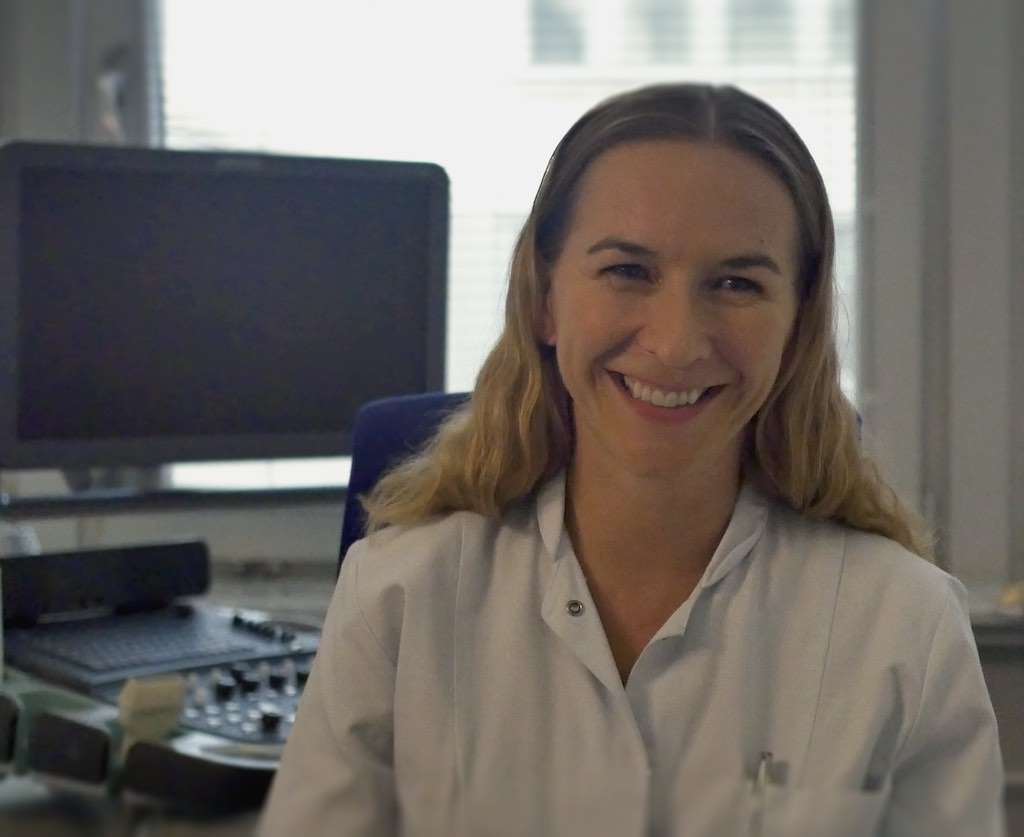
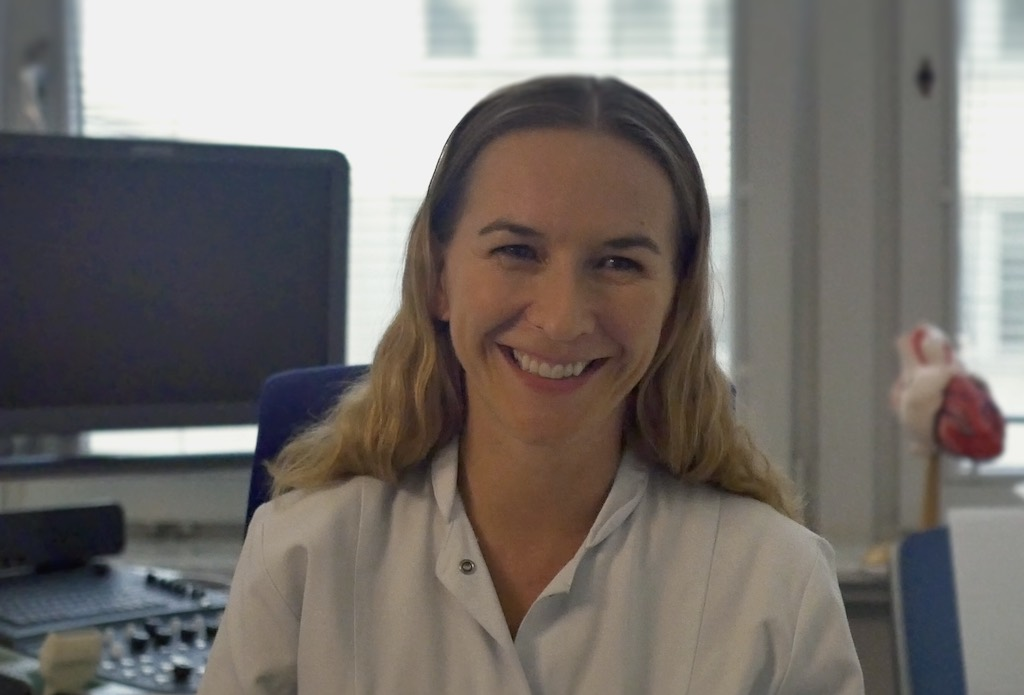
Updated hero image

diff --git a/docs/assets/stylesheets/main.css b/docs/assets/stylesheets/main.css
@@ -1,1 +1,1 @@
-/*! tailwindcss v3.0.24 | MIT License | https://tailwindcss.com*/*,:after,:before{box-sizing:border-box;border:0 solid #e5e7eb}:after,:before{--tw-content:""}html{line-height:1.5;-webkit-text-size-adjust:100%;-moz-tab-size:4;-o-tab-size:4;tab-size:4;font-family:ui-sans-serif,system-ui,-apple-system,BlinkMacSystemFont,Segoe UI,Roboto,Helvetica Neue,Arial,Noto Sans,sans-serif,Apple Color Emoji,Segoe UI Emoji,Segoe UI Symbol,Noto Color Emoji}body{margin:0;line-height:inherit}hr{height:0;color:inherit;border-top-width:1px}abbr:where([title]){-webkit-text-decoration:underline dotted;text-decoration:underline dotted}h1,h2,h3,h4,h5,h6{font-size:inherit;font-weight:inherit}a{color:inherit;text-decoration:inherit}b,strong{font-weight:bolder}code,kbd,pre,samp{font-family:ui-monospace,SFMono-Regular,Menlo,Monaco,Consolas,Liberation Mono,Courier New,monospace;font-size:1em}small{font-size:80%}sub,sup{font-size:75%;line-height:0;position:relative;vertical-align:initial}sub{bottom:-.25em}sup{top:-.5em}table{text-indent:0;border-color:inherit;border-collapse:collapse}button,input,optgroup,select,textarea{font-family:inherit;font-size:100%;line-height:inherit;color:inherit;margin:0;padding:0}button,select{text-transform:none}[type=button],[type=reset],[type=submit],button{-webkit-appearance:button;background-color:initial;background-image:none}:-moz-focusring{outline:auto}:-moz-ui-invalid{box-shadow:none}progress{vertical-align:initial}::-webkit-inner-spin-button,::-webkit-outer-spin-button{height:auto}[type=search]{-webkit-appearance:textfield;outline-offset:-2px}::-webkit-search-decoration{-webkit-appearance:none}::-webkit-file-upload-button{-webkit-appearance:button;font:inherit}summary{display:list-item}blockquote,dd,dl,figure,h1,h2,h3,h4,h5,h6,hr,p,pre{margin:0}fieldset{margin:0}fieldset,legend{padding:0}menu,ol,ul{list-style:none;margin:0;padding:0}textarea{resize:vertical}input::-moz-placeholder,textarea::-moz-placeholder{opacity:1;color:#9ca3af}input:-ms-input-placeholder,textarea:-ms-input-placeholder{opacity:1;color:#9ca3af}input::placeholder,textarea::placeholder{opacity:1;color:#9ca3af}[role=button],button{cursor:pointer}:disabled{cursor:default}audio,canvas,embed,iframe,img,object,svg,video{display:block;vertical-align:middle}img,video{max-width:100%;height:auto}[hidden]{display:none}*,:after,:before{--tw-translate-x:0;--tw-translate-y:0;--tw-rotate:0;--tw-skew-x:0;--tw-skew-y:0;--tw-scale-x:1;--tw-scale-y:1;--tw-pan-x: ;--tw-pan-y: ;--tw-pinch-zoom: ;--tw-scroll-snap-strictness:proximity;--tw-ordinal: ;--tw-slashed-zero: ;--tw-numeric-figure: ;--tw-numeric-spacing: ;--tw-numeric-fraction: ;--tw-ring-inset: ;--tw-ring-offset-width:0px;--tw-ring-offset-color:#fff;--tw-ring-color:#3b82f680;--tw-ring-offset-shadow:0 0 #0000;--tw-ring-shadow:0 0 #0000;--tw-shadow:0 0 #0000;--tw-shadow-colored:0 0 #0000;--tw-blur: ;--tw-brightness: ;--tw-contrast: ;--tw-grayscale: ;--tw-hue-rotate: ;--tw-invert: ;--tw-saturate: ;--tw-sepia: ;--tw-drop-shadow: ;--tw-backdrop-blur: ;--tw-backdrop-brightness: ;--tw-backdrop-contrast: ;--tw-backdrop-grayscale: ;--tw-backdrop-hue-rotate: ;--tw-backdrop-invert: ;--tw-backdrop-opacity: ;--tw-backdrop-saturate: ;--tw-backdrop-sepia: }.sr-only{position:absolute;width:1px;height:1px;padding:0;margin:-1px;overflow:hidden;clip:rect(0,0,0,0);white-space:nowrap;border-width:0}.absolute{position:absolute}.relative{position:relative}.inset-x-0{left:0;right:0}.inset-y-0{top:0;bottom:0}.-top-6{top:-1.5rem}.left-0{left:0}.-bottom-1{bottom:-.25rem}.top-\[2px\]{top:2px}.right-0{right:0}.top-0{top:0}.-left-3{left:-.75rem}.left-7{left:1.75rem}.-top-8{top:-2rem}.-bottom-8{bottom:-2rem}.bottom-5{bottom:1.25rem}.left-1\/2{left:50%}.z-20{z-index:20}.z-10{z-index:10}.z-30{z-index:30}.mx-auto{margin-left:auto;margin-right:auto}.mt-4{margin-top:1rem}.mt-6{margin-top:1.5rem}.mb-12{margin-bottom:3rem}.mt-8{margin-top:2rem}.mt-2{margin-top:.5rem}.mb-2{margin-bottom:.5rem}.-mr-2{margin-right:-.5rem}.mr-7{margin-right:1.75rem}.mt-10{margin-top:2.5rem}.mb-6{margin-bottom:1.5rem}.mt-3{margin-top:.75rem}.mt-5{margin-top:1.25rem}.mt-16{margin-top:4rem}.block{display:block}.inline-block{display:inline-block}.flex{display:flex}.inline-flex{display:inline-flex}.hidden{display:none}.h-96{height:24rem}.h-\[20rem\]{height:20rem}.h-7{height:1.75rem}.h-6{height:1.5rem}.h-8{height:2rem}.h-1{height:.25rem}.h-full{height:100%}.h-4{height:1rem}.h-3{height:.75rem}.h-5{height:1.25rem}.min-h-full{min-height:100%}.min-h-screen{min-height:100vh}.min-h-\[11rem\]{min-height:11rem}.w-full{width:100%}.w-6{width:1.5rem}.w-auto{width:auto}.w-24{width:6rem}.w-1{width:.25rem}.w-2{width:.5rem}.w-48{width:12rem}.w-8{width:2rem}.w-3{width:.75rem}.w-5{width:1.25rem}.max-w-7xl{max-width:80rem}.max-w-full{max-width:100%}.max-w-3xl{max-width:48rem}.flex-none{flex:none}.flex-shrink-0{flex-shrink:0}.flex-grow{flex-grow:1}.flex-grow-0{flex-grow:0}.grow{flex-grow:1}.origin-top-right{transform-origin:top right}.translate-x-1\/2{--tw-translate-x:50%}.-translate-x-3,.translate-x-1\/2{transform:translate(var(--tw-translate-x),var(--tw-translate-y)) rotate(var(--tw-rotate)) skewX(var(--tw-skew-x)) skewY(var(--tw-skew-y)) scaleX(var(--tw-scale-x)) scaleY(var(--tw-scale-y))}.-translate-x-3{--tw-translate-x:-0.75rem}.-translate-y-2{--tw-translate-y:-0.5rem}.-translate-x-1\/2,.-translate-y-2{transform:translate(var(--tw-translate-x),var(--tw-translate-y)) rotate(var(--tw-rotate)) skewX(var(--tw-skew-x)) skewY(var(--tw-skew-y)) scaleX(var(--tw-scale-x)) scaleY(var(--tw-scale-y))}.-translate-x-1\/2{--tw-translate-x:-50%}.rotate-0{--tw-rotate:0deg}.-scale-y-100,.rotate-0{transform:translate(var(--tw-translate-x),var(--tw-translate-y)) rotate(var(--tw-rotate)) skewX(var(--tw-skew-x)) skewY(var(--tw-skew-y)) scaleX(var(--tw-scale-x)) scaleY(var(--tw-scale-y))}.-scale-y-100{--tw-scale-y:-1}.-scale-x-100{--tw-scale-x:-1}.-scale-x-100,.transform{transform:translate(var(--tw-translate-x),var(--tw-translate-y)) rotate(var(--tw-rotate)) skewX(var(--tw-skew-x)) skewY(var(--tw-skew-y)) scaleX(var(--tw-scale-x)) scaleY(var(--tw-scale-y))}.cursor-pointer{cursor:pointer}.flex-col{flex-direction:column}.items-start{align-items:flex-start}.items-center{align-items:center}.justify-start{justify-content:flex-start}.justify-center{justify-content:center}.justify-between{justify-content:space-between}.gap-8{gap:2rem}.gap-2{gap:.5rem}.space-y-5>:not([hidden])~:not([hidden]){--tw-space-y-reverse:0;margin-top:calc(1.25rem*(1 - var(--tw-space-y-reverse)));margin-bottom:calc(1.25rem*var(--tw-space-y-reverse))}.space-y-4>:not([hidden])~:not([hidden]){--tw-space-y-reverse:0;margin-top:calc(1rem*(1 - var(--tw-space-y-reverse)));margin-bottom:calc(1rem*var(--tw-space-y-reverse))}.space-x-6>:not([hidden])~:not([hidden]){--tw-space-x-reverse:0;margin-right:calc(1.5rem*var(--tw-space-x-reverse));margin-left:calc(1.5rem*(1 - var(--tw-space-x-reverse)))}.space-y-1>:not([hidden])~:not([hidden]){--tw-space-y-reverse:0;margin-top:calc(.25rem*(1 - var(--tw-space-y-reverse)));margin-bottom:calc(.25rem*var(--tw-space-y-reverse))}.space-y-3>:not([hidden])~:not([hidden]){--tw-space-y-reverse:0;margin-top:calc(.75rem*(1 - var(--tw-space-y-reverse)));margin-bottom:calc(.75rem*var(--tw-space-y-reverse))}.space-x-3>:not([hidden])~:not([hidden]){--tw-space-x-reverse:0;margin-right:calc(.75rem*var(--tw-space-x-reverse));margin-left:calc(.75rem*(1 - var(--tw-space-x-reverse)))}.divide-y>:not([hidden])~:not([hidden]){--tw-divide-y-reverse:0;border-top-width:calc(1px*(1 - var(--tw-divide-y-reverse)));border-bottom-width:calc(1px*var(--tw-divide-y-reverse))}.divide-y-2>:not([hidden])~:not([hidden]){--tw-divide-y-reverse:0;border-top-width:calc(2px*(1 - var(--tw-divide-y-reverse)));border-bottom-width:calc(2px*var(--tw-divide-y-reverse))}.divide-gray-200>:not([hidden])~:not([hidden]){--tw-divide-opacity:1;border-color:rgb(229 231 235/var(--tw-divide-opacity))}.divide-gray-300>:not([hidden])~:not([hidden]){--tw-divide-opacity:1;border-color:rgb(209 213 219/var(--tw-divide-opacity))}.justify-self-end{justify-self:end}.justify-self-center{justify-self:center}.overflow-hidden{overflow:hidden}.rounded-md{border-radius:.375rem}.rounded-lg{border-radius:.5rem}.rounded-full{border-radius:9999px}.border{border-width:1px}.border-t{border-top-width:1px}.border-gray-200{--tw-border-opacity:1;border-color:rgb(229 231 235/var(--tw-border-opacity))}.border-transparent{border-color:#0000}.bg-white{--tw-bg-opacity:1;background-color:rgb(255 255 255/var(--tw-bg-opacity))}.bg-gray-50{--tw-bg-opacity:1;background-color:rgb(249 250 251/var(--tw-bg-opacity))}.bg-blue-600{--tw-bg-opacity:1;background-color:rgb(37 99 235/var(--tw-bg-opacity))}.bg-gray-300{--tw-bg-opacity:1;background-color:rgb(209 213 219/var(--tw-bg-opacity))}.bg-indigo-600{--tw-bg-opacity:1;background-color:rgb(79 70 229/var(--tw-bg-opacity))}.bg-gray-200{--tw-bg-opacity:1;background-color:rgb(229 231 235/var(--tw-bg-opacity))}.bg-gray-400{--tw-bg-opacity:1;background-color:rgb(156 163 175/var(--tw-bg-opacity))}.bg-gray-900{--tw-bg-opacity:1;background-color:rgb(17 24 39/var(--tw-bg-opacity))}.bg-white\/50{background-color:#ffffff80}.bg-gray-800\/30{background-color:#1f29374d}.bg-red-200{--tw-bg-opacity:1;background-color:rgb(254 202 202/var(--tw-bg-opacity))}.object-cover{-o-object-fit:cover;object-fit:cover}.object-scale-down{-o-object-fit:scale-down;object-fit:scale-down}.object-top{-o-object-position:top;object-position:top}.p-2{padding:.5rem}.px-4{padding-left:1rem;padding-right:1rem}.py-16{padding-top:4rem;padding-bottom:4rem}.py-4{padding-top:1rem;padding-bottom:1rem}.py-6{padding-top:1.5rem;padding-bottom:1.5rem}.py-12{padding-top:3rem;padding-bottom:3rem}.py-1{padding-top:.25rem;padding-bottom:.25rem}.py-2{padding-top:.5rem;padding-bottom:.5rem}.px-5{padding-left:1.25rem;padding-right:1.25rem}.px-2{padding-left:.5rem;padding-right:.5rem}.px-3{padding-left:.75rem;padding-right:.75rem}.py-8{padding-top:2rem;padding-bottom:2rem}.py-3{padding-top:.75rem;padding-bottom:.75rem}.pt-16{padding-top:4rem}.pb-12{padding-bottom:3rem}.pt-4{padding-top:1rem}.pb-8{padding-bottom:2rem}.pb-10{padding-bottom:2.5rem}.pr-12{padding-right:3rem}.pl-8{padding-left:2rem}.pr-6{padding-right:1.5rem}.pt-2{padding-top:.5rem}.pb-3{padding-bottom:.75rem}.pt-12{padding-top:3rem}.pb-6{padding-bottom:1.5rem}.text-left{text-align:left}.text-center{text-align:center}.text-sm{font-size:.875rem;line-height:1.25rem}.text-base{font-size:1rem;line-height:1.5rem}.text-lg{font-size:1.125rem;line-height:1.75rem}.text-2xl{font-size:1.5rem;line-height:2rem}.font-semibold{font-weight:600}.font-medium{font-weight:500}.uppercase{text-transform:uppercase}.italic{font-style:italic}.leading-9{line-height:2.25rem}.tracking-wide{letter-spacing:.025em}.text-indigo-600{--tw-text-opacity:1;color:rgb(79 70 229/var(--tw-text-opacity))}.text-gray-500{--tw-text-opacity:1;color:rgb(107 114 128/var(--tw-text-opacity))}.text-gray-900{--tw-text-opacity:1;color:rgb(17 24 39/var(--tw-text-opacity))}.text-gray-400{--tw-text-opacity:1;color:rgb(156 163 175/var(--tw-text-opacity))}.text-gray-700{--tw-text-opacity:1;color:rgb(55 65 81/var(--tw-text-opacity))}.text-white{--tw-text-opacity:1;color:rgb(255 255 255/var(--tw-text-opacity))}.text-gray-600{--tw-text-opacity:1;color:rgb(75 85 99/var(--tw-text-opacity))}.text-blue-600{--tw-text-opacity:1;color:rgb(37 99 235/var(--tw-text-opacity))}.text-indigo-500{--tw-text-opacity:1;color:rgb(99 102 241/var(--tw-text-opacity))}.opacity-90{opacity:.9}.shadow-sm{--tw-shadow:0 1px 2px 0 #0000000d;--tw-shadow-colored:0 1px 2px 0 var(--tw-shadow-color)}.shadow-lg,.shadow-sm{box-shadow:var(--tw-ring-offset-shadow,0 0 #0000),var(--tw-ring-shadow,0 0 #0000),var(--tw-shadow)}.shadow-lg{--tw-shadow:0 10px 15px -3px #0000001a,0 4px 6px -4px #0000001a;--tw-shadow-colored:0 10px 15px -3px var(--tw-shadow-color),0 4px 6px -4px var(--tw-shadow-color)}.shadow-md{--tw-shadow:0 4px 6px -1px #0000001a,0 2px 4px -2px #0000001a;--tw-shadow-colored:0 4px 6px -1px var(--tw-shadow-color),0 2px 4px -2px var(--tw-shadow-color);box-shadow:var(--tw-ring-offset-shadow,0 0 #0000),var(--tw-ring-shadow,0 0 #0000),var(--tw-shadow)}.ring-1{--tw-ring-offset-shadow:var(--tw-ring-inset) 0 0 0 var(--tw-ring-offset-width) var(--tw-ring-offset-color);--tw-ring-shadow:var(--tw-ring-inset) 0 0 0 calc(1px + var(--tw-ring-offset-width)) var(--tw-ring-color);box-shadow:var(--tw-ring-offset-shadow),var(--tw-ring-shadow),var(--tw-shadow,0 0 #0000)}.ring-black{--tw-ring-opacity:1;--tw-ring-color:rgb(0 0 0/var(--tw-ring-opacity))}.ring-opacity-5{--tw-ring-opacity:0.05}.drop-shadow-xl{--tw-drop-shadow:drop-shadow(0 20px 13px #00000008) drop-shadow(0 8px 5px #00000014);filter:var(--tw-blur) var(--tw-brightness) var(--tw-contrast) var(--tw-grayscale) var(--tw-hue-rotate) var(--tw-invert) var(--tw-saturate) var(--tw-sepia) var(--tw-drop-shadow)}.transition{transition-property:color,background-color,border-color,fill,stroke,opacity,box-shadow,transform,filter,-webkit-text-decoration-color,-webkit-backdrop-filter;transition-property:color,background-color,border-color,text-decoration-color,fill,stroke,opacity,box-shadow,transform,filter,backdrop-filter;transition-property:color,background-color,border-color,text-decoration-color,fill,stroke,opacity,box-shadow,transform,filter,backdrop-filter,-webkit-text-decoration-color,-webkit-backdrop-filter;transition-timing-function:cubic-bezier(.4,0,.2,1);transition-duration:.15s}h1{font-size:2.25rem;line-height:2.5rem;font-weight:800;letter-spacing:-.025em}@media (min-width:640px){h1{font-size:3rem;line-height:1}}@media (min-width:768px){h1{font-size:3.75rem;line-height:1}}h2{font-size:1.875rem;line-height:2.25rem;font-weight:800}@media (min-width:640px){h2{font-size:2.25rem;line-height:2.5rem}}.content a:not(.btn){--tw-text-opacity:1;color:rgb(37 99 235/var(--tw-text-opacity));-webkit-text-decoration-line:underline;text-decoration-line:underline}.content a:not(.btn):visited{color:#9333ea}.content a:not(.btn):hover{--tw-text-opacity:1;color:rgb(30 64 175/var(--tw-text-opacity))}ul{list-style-type:disc;padding-left:1rem;padding-right:1rem}.hover\:bg-gray-100:hover{--tw-bg-opacity:1;background-color:rgb(243 244 246/var(--tw-bg-opacity))}.hover\:bg-gray-50:hover{--tw-bg-opacity:1;background-color:rgb(249 250 251/var(--tw-bg-opacity))}.hover\:bg-indigo-700:hover{--tw-bg-opacity:1;background-color:rgb(67 56 202/var(--tw-bg-opacity))}.hover\:bg-white:hover{--tw-bg-opacity:1;background-color:rgb(255 255 255/var(--tw-bg-opacity))}.hover\:text-indigo-500:hover{--tw-text-opacity:1;color:rgb(99 102 241/var(--tw-text-opacity))}.hover\:text-gray-500:hover{--tw-text-opacity:1;color:rgb(107 114 128/var(--tw-text-opacity))}.hover\:text-gray-300:hover{--tw-text-opacity:1;color:rgb(209 213 219/var(--tw-text-opacity))}.hover\:text-gray-900:hover{--tw-text-opacity:1;color:rgb(17 24 39/var(--tw-text-opacity))}.focus\:outline-none:focus{outline:2px solid #0000;outline-offset:2px}.focus\:ring-2:focus{--tw-ring-offset-shadow:var(--tw-ring-inset) 0 0 0 var(--tw-ring-offset-width) var(--tw-ring-offset-color);--tw-ring-shadow:var(--tw-ring-inset) 0 0 0 calc(2px + var(--tw-ring-offset-width)) var(--tw-ring-color);box-shadow:var(--tw-ring-offset-shadow),var(--tw-ring-shadow),var(--tw-shadow,0 0 #0000)}.focus\:ring-inset:focus{--tw-ring-inset:inset}.focus\:ring-indigo-500:focus{--tw-ring-opacity:1;--tw-ring-color:rgb(99 102 241/var(--tw-ring-opacity))}.focus\:ring-offset-2:focus{--tw-ring-offset-width:2px}.focus\:ring-offset-gray-100:focus{--tw-ring-offset-color:#f3f4f6}.group:hover .group-hover\:bg-gray-800\/60{background-color:#1f293799}.group:focus .group-focus\:ring-gray-800\/70{--tw-ring-color:#1f2937b3}@media (prefers-color-scheme:dark){.dark\:text-gray-800{--tw-text-opacity:1;color:rgb(31 41 55/var(--tw-text-opacity))}}@media (min-width:640px){.sm\:mx-auto{margin-left:auto;margin-right:auto}.sm\:mt-12{margin-top:3rem}.sm\:mt-5{margin-top:1.25rem}.sm\:h-10{height:2.5rem}.sm\:h-6{height:1.5rem}.sm\:w-auto{width:auto}.sm\:w-10{width:2.5rem}.sm\:w-6{width:1.5rem}.sm\:max-w-xl{max-width:36rem}.sm\:px-6{padding-left:1.5rem;padding-right:1.5rem}.sm\:py-24{padding-top:6rem;padding-bottom:6rem}.sm\:pt-16{padding-top:4rem}.sm\:text-center{text-align:center}.sm\:text-lg{font-size:1.125rem;line-height:1.75rem}}@media (min-width:768px){.md\:absolute{position:absolute}.md\:bottom-12{bottom:3rem}.md\:left-1\/2{left:50%}.md\:mb-8{margin-bottom:2rem}.md\:mt-5{margin-top:1.25rem}.md\:mt-0{margin-top:0}.md\:ml-4{margin-left:1rem}.md\:block{display:block}.md\:inline{display:inline}.md\:h-screen{height:100vh}.md\:h-full{height:100%}.md\:min-h-0{min-height:0}.md\:-translate-x-1\/2{--tw-translate-x:-50%;transform:translate(var(--tw-translate-x),var(--tw-translate-y)) rotate(var(--tw-rotate)) skewX(var(--tw-skew-x)) skewY(var(--tw-skew-y)) scaleX(var(--tw-scale-x)) scaleY(var(--tw-scale-y))}.md\:flex-row{flex-direction:row}.md\:bg-gray-900{--tw-bg-opacity:1;background-color:rgb(17 24 39/var(--tw-bg-opacity))}.md\:object-right-top{-o-object-position:right top;object-position:right top}.md\:py-20{padding-top:5rem;padding-bottom:5rem}.md\:text-xl{font-size:1.25rem;line-height:1.75rem}}@media (min-width:1024px){.lg\:mx-0{margin-left:0;margin-right:0}.lg\:ml-10{margin-left:2.5rem}.lg\:mt-4{margin-top:1rem}.lg\:mt-0{margin-top:0}.lg\:block{display:block}.lg\:hidden{display:none}.lg\:h-full{height:100%}.lg\:w-2\/5{width:40%}.lg\:w-full{width:100%}.lg\:max-w-2xl{max-width:42rem}.lg\:flex-1{flex:1 1 0%}.lg\:flex-row-reverse{flex-direction:row-reverse}.lg\:items-center{align-items:center}.lg\:items-stretch{align-items:stretch}.lg\:space-x-8>:not([hidden])~:not([hidden]){--tw-space-x-reverse:0;margin-right:calc(2rem*var(--tw-space-x-reverse));margin-left:calc(2rem*(1 - var(--tw-space-x-reverse)))}.lg\:px-8{padding-left:2rem;padding-right:2rem}.lg\:py-24{padding-top:6rem;padding-bottom:6rem}.lg\:pr-4{padding-right:1rem}.lg\:text-left{text-align:left}}
+/*! tailwindcss v3.0.24 | MIT License | https://tailwindcss.com*/*,:after,:before{box-sizing:border-box;border:0 solid #e5e7eb}:after,:before{--tw-content:""}html{line-height:1.5;-webkit-text-size-adjust:100%;-moz-tab-size:4;-o-tab-size:4;tab-size:4;font-family:ui-sans-serif,system-ui,-apple-system,BlinkMacSystemFont,Segoe UI,Roboto,Helvetica Neue,Arial,Noto Sans,sans-serif,Apple Color Emoji,Segoe UI Emoji,Segoe UI Symbol,Noto Color Emoji}body{margin:0;line-height:inherit}hr{height:0;color:inherit;border-top-width:1px}abbr:where([title]){-webkit-text-decoration:underline dotted;text-decoration:underline dotted}h1,h2,h3,h4,h5,h6{font-size:inherit;font-weight:inherit}a{color:inherit;text-decoration:inherit}b,strong{font-weight:bolder}code,kbd,pre,samp{font-family:ui-monospace,SFMono-Regular,Menlo,Monaco,Consolas,Liberation Mono,Courier New,monospace;font-size:1em}small{font-size:80%}sub,sup{font-size:75%;line-height:0;position:relative;vertical-align:initial}sub{bottom:-.25em}sup{top:-.5em}table{text-indent:0;border-color:inherit;border-collapse:collapse}button,input,optgroup,select,textarea{font-family:inherit;font-size:100%;line-height:inherit;color:inherit;margin:0;padding:0}button,select{text-transform:none}[type=button],[type=reset],[type=submit],button{-webkit-appearance:button;background-color:initial;background-image:none}:-moz-focusring{outline:auto}:-moz-ui-invalid{box-shadow:none}progress{vertical-align:initial}::-webkit-inner-spin-button,::-webkit-outer-spin-button{height:auto}[type=search]{-webkit-appearance:textfield;outline-offset:-2px}::-webkit-search-decoration{-webkit-appearance:none}::-webkit-file-upload-button{-webkit-appearance:button;font:inherit}summary{display:list-item}blockquote,dd,dl,figure,h1,h2,h3,h4,h5,h6,hr,p,pre{margin:0}fieldset{margin:0}fieldset,legend{padding:0}menu,ol,ul{list-style:none;margin:0;padding:0}textarea{resize:vertical}input::-moz-placeholder,textarea::-moz-placeholder{opacity:1;color:#9ca3af}input:-ms-input-placeholder,textarea:-ms-input-placeholder{opacity:1;color:#9ca3af}input::placeholder,textarea::placeholder{opacity:1;color:#9ca3af}[role=button],button{cursor:pointer}:disabled{cursor:default}audio,canvas,embed,iframe,img,object,svg,video{display:block;vertical-align:middle}img,video{max-width:100%;height:auto}[hidden]{display:none}*,:after,:before{--tw-translate-x:0;--tw-translate-y:0;--tw-rotate:0;--tw-skew-x:0;--tw-skew-y:0;--tw-scale-x:1;--tw-scale-y:1;--tw-pan-x: ;--tw-pan-y: ;--tw-pinch-zoom: ;--tw-scroll-snap-strictness:proximity;--tw-ordinal: ;--tw-slashed-zero: ;--tw-numeric-figure: ;--tw-numeric-spacing: ;--tw-numeric-fraction: ;--tw-ring-inset: ;--tw-ring-offset-width:0px;--tw-ring-offset-color:#fff;--tw-ring-color:#3b82f680;--tw-ring-offset-shadow:0 0 #0000;--tw-ring-shadow:0 0 #0000;--tw-shadow:0 0 #0000;--tw-shadow-colored:0 0 #0000;--tw-blur: ;--tw-brightness: ;--tw-contrast: ;--tw-grayscale: ;--tw-hue-rotate: ;--tw-invert: ;--tw-saturate: ;--tw-sepia: ;--tw-drop-shadow: ;--tw-backdrop-blur: ;--tw-backdrop-brightness: ;--tw-backdrop-contrast: ;--tw-backdrop-grayscale: ;--tw-backdrop-hue-rotate: ;--tw-backdrop-invert: ;--tw-backdrop-opacity: ;--tw-backdrop-saturate: ;--tw-backdrop-sepia: }.container{width:100%}@media (min-width:640px){.container{max-width:640px}}@media (min-width:768px){.container{max-width:768px}}@media (min-width:1024px){.container{max-width:1024px}}@media (min-width:1280px){.container{max-width:1280px}}@media (min-width:1536px){.container{max-width:1536px}}.sr-only{position:absolute;width:1px;height:1px;padding:0;margin:-1px;overflow:hidden;clip:rect(0,0,0,0);white-space:nowrap;border-width:0}.absolute{position:absolute}.relative{position:relative}.inset-x-0{left:0;right:0}.inset-y-0{top:0;bottom:0}.-top-6{top:-1.5rem}.left-0{left:0}.-bottom-1{bottom:-.25rem}.top-\[2px\]{top:2px}.right-0{right:0}.top-0{top:0}.-left-3{left:-.75rem}.left-7{left:1.75rem}.-top-8{top:-2rem}.-bottom-8{bottom:-2rem}.bottom-5{bottom:1.25rem}.left-1\/2{left:50%}.z-20{z-index:20}.z-10{z-index:10}.z-30{z-index:30}.mx-auto{margin-left:auto;margin-right:auto}.mt-4{margin-top:1rem}.mt-6{margin-top:1.5rem}.mb-12{margin-bottom:3rem}.mt-8{margin-top:2rem}.mt-2{margin-top:.5rem}.mb-2{margin-bottom:.5rem}.-mr-2{margin-right:-.5rem}.mr-7{margin-right:1.75rem}.mt-10{margin-top:2.5rem}.mb-6{margin-bottom:1.5rem}.mt-3{margin-top:.75rem}.mt-5{margin-top:1.25rem}.mt-16{margin-top:4rem}.block{display:block}.inline-block{display:inline-block}.flex{display:flex}.inline-flex{display:inline-flex}.hidden{display:none}.h-96{height:24rem}.h-\[20rem\]{height:20rem}.h-7{height:1.75rem}.h-6{height:1.5rem}.h-8{height:2rem}.h-1{height:.25rem}.h-full{height:100%}.h-4{height:1rem}.h-3{height:.75rem}.h-5{height:1.25rem}.min-h-full{min-height:100%}.min-h-screen{min-height:100vh}.min-h-\[11rem\]{min-height:11rem}.w-full{width:100%}.w-6{width:1.5rem}.w-auto{width:auto}.w-24{width:6rem}.w-1{width:.25rem}.w-2{width:.5rem}.w-48{width:12rem}.w-8{width:2rem}.w-3{width:.75rem}.w-5{width:1.25rem}.max-w-7xl{max-width:80rem}.max-w-full{max-width:100%}.max-w-3xl{max-width:48rem}.flex-none{flex:none}.flex-shrink-0{flex-shrink:0}.flex-grow{flex-grow:1}.flex-grow-0{flex-grow:0}.grow{flex-grow:1}.origin-top-right{transform-origin:top right}.translate-x-1\/2{--tw-translate-x:50%}.-translate-x-3,.translate-x-1\/2{transform:translate(var(--tw-translate-x),var(--tw-translate-y)) rotate(var(--tw-rotate)) skewX(var(--tw-skew-x)) skewY(var(--tw-skew-y)) scaleX(var(--tw-scale-x)) scaleY(var(--tw-scale-y))}.-translate-x-3{--tw-translate-x:-0.75rem}.-translate-y-2{--tw-translate-y:-0.5rem}.-translate-x-1\/2,.-translate-y-2{transform:translate(var(--tw-translate-x),var(--tw-translate-y)) rotate(var(--tw-rotate)) skewX(var(--tw-skew-x)) skewY(var(--tw-skew-y)) scaleX(var(--tw-scale-x)) scaleY(var(--tw-scale-y))}.-translate-x-1\/2{--tw-translate-x:-50%}.rotate-0{--tw-rotate:0deg}.-scale-y-100,.rotate-0{transform:translate(var(--tw-translate-x),var(--tw-translate-y)) rotate(var(--tw-rotate)) skewX(var(--tw-skew-x)) skewY(var(--tw-skew-y)) scaleX(var(--tw-scale-x)) scaleY(var(--tw-scale-y))}.-scale-y-100{--tw-scale-y:-1}.-scale-x-100{--tw-scale-x:-1}.-scale-x-100,.transform{transform:translate(var(--tw-translate-x),var(--tw-translate-y)) rotate(var(--tw-rotate)) skewX(var(--tw-skew-x)) skewY(var(--tw-skew-y)) scaleX(var(--tw-scale-x)) scaleY(var(--tw-scale-y))}.cursor-pointer{cursor:pointer}.flex-col{flex-direction:column}.items-start{align-items:flex-start}.items-center{align-items:center}.justify-start{justify-content:flex-start}.justify-center{justify-content:center}.justify-between{justify-content:space-between}.gap-8{gap:2rem}.gap-2{gap:.5rem}.space-y-5>:not([hidden])~:not([hidden]){--tw-space-y-reverse:0;margin-top:calc(1.25rem*(1 - var(--tw-space-y-reverse)));margin-bottom:calc(1.25rem*var(--tw-space-y-reverse))}.space-y-4>:not([hidden])~:not([hidden]){--tw-space-y-reverse:0;margin-top:calc(1rem*(1 - var(--tw-space-y-reverse)));margin-bottom:calc(1rem*var(--tw-space-y-reverse))}.space-x-6>:not([hidden])~:not([hidden]){--tw-space-x-reverse:0;margin-right:calc(1.5rem*var(--tw-space-x-reverse));margin-left:calc(1.5rem*(1 - var(--tw-space-x-reverse)))}.space-y-1>:not([hidden])~:not([hidden]){--tw-space-y-reverse:0;margin-top:calc(.25rem*(1 - var(--tw-space-y-reverse)));margin-bottom:calc(.25rem*var(--tw-space-y-reverse))}.space-y-3>:not([hidden])~:not([hidden]){--tw-space-y-reverse:0;margin-top:calc(.75rem*(1 - var(--tw-space-y-reverse)));margin-bottom:calc(.75rem*var(--tw-space-y-reverse))}.space-x-3>:not([hidden])~:not([hidden]){--tw-space-x-reverse:0;margin-right:calc(.75rem*var(--tw-space-x-reverse));margin-left:calc(.75rem*(1 - var(--tw-space-x-reverse)))}.divide-y>:not([hidden])~:not([hidden]){--tw-divide-y-reverse:0;border-top-width:calc(1px*(1 - var(--tw-divide-y-reverse)));border-bottom-width:calc(1px*var(--tw-divide-y-reverse))}.divide-y-2>:not([hidden])~:not([hidden]){--tw-divide-y-reverse:0;border-top-width:calc(2px*(1 - var(--tw-divide-y-reverse)));border-bottom-width:calc(2px*var(--tw-divide-y-reverse))}.divide-gray-200>:not([hidden])~:not([hidden]){--tw-divide-opacity:1;border-color:rgb(229 231 235/var(--tw-divide-opacity))}.divide-gray-300>:not([hidden])~:not([hidden]){--tw-divide-opacity:1;border-color:rgb(209 213 219/var(--tw-divide-opacity))}.justify-self-end{justify-self:end}.overflow-hidden{overflow:hidden}.rounded-md{border-radius:.375rem}.rounded-lg{border-radius:.5rem}.rounded-full{border-radius:9999px}.border{border-width:1px}.border-t{border-top-width:1px}.border-gray-200{--tw-border-opacity:1;border-color:rgb(229 231 235/var(--tw-border-opacity))}.border-transparent{border-color:#0000}.bg-white{--tw-bg-opacity:1;background-color:rgb(255 255 255/var(--tw-bg-opacity))}.bg-gray-50{--tw-bg-opacity:1;background-color:rgb(249 250 251/var(--tw-bg-opacity))}.bg-blue-600{--tw-bg-opacity:1;background-color:rgb(37 99 235/var(--tw-bg-opacity))}.bg-gray-300{--tw-bg-opacity:1;background-color:rgb(209 213 219/var(--tw-bg-opacity))}.bg-indigo-600{--tw-bg-opacity:1;background-color:rgb(79 70 229/var(--tw-bg-opacity))}.bg-gray-200{--tw-bg-opacity:1;background-color:rgb(229 231 235/var(--tw-bg-opacity))}.bg-gray-400{--tw-bg-opacity:1;background-color:rgb(156 163 175/var(--tw-bg-opacity))}.bg-gray-900{--tw-bg-opacity:1;background-color:rgb(17 24 39/var(--tw-bg-opacity))}.bg-white\/50{background-color:#ffffff80}.bg-gray-800\/30{background-color:#1f29374d}.object-cover{-o-object-fit:cover;object-fit:cover}.object-scale-down{-o-object-fit:scale-down;object-fit:scale-down}.object-top{-o-object-position:top;object-position:top}.p-2{padding:.5rem}.px-4{padding-left:1rem;padding-right:1rem}.py-16{padding-top:4rem;padding-bottom:4rem}.py-4{padding-top:1rem;padding-bottom:1rem}.py-6{padding-top:1.5rem;padding-bottom:1.5rem}.py-12{padding-top:3rem;padding-bottom:3rem}.py-1{padding-top:.25rem;padding-bottom:.25rem}.py-2{padding-top:.5rem;padding-bottom:.5rem}.px-5{padding-left:1.25rem;padding-right:1.25rem}.px-2{padding-left:.5rem;padding-right:.5rem}.px-3{padding-left:.75rem;padding-right:.75rem}.py-8{padding-top:2rem;padding-bottom:2rem}.py-3{padding-top:.75rem;padding-bottom:.75rem}.pt-16{padding-top:4rem}.pb-12{padding-bottom:3rem}.pt-4{padding-top:1rem}.pb-8{padding-bottom:2rem}.pb-10{padding-bottom:2.5rem}.pr-12{padding-right:3rem}.pl-8{padding-left:2rem}.pr-6{padding-right:1.5rem}.pt-2{padding-top:.5rem}.pb-3{padding-bottom:.75rem}.pt-12{padding-top:3rem}.pb-6{padding-bottom:1.5rem}.text-left{text-align:left}.text-center{text-align:center}.text-sm{font-size:.875rem;line-height:1.25rem}.text-base{font-size:1rem;line-height:1.5rem}.text-lg{font-size:1.125rem;line-height:1.75rem}.text-2xl{font-size:1.5rem;line-height:2rem}.font-semibold{font-weight:600}.font-medium{font-weight:500}.uppercase{text-transform:uppercase}.italic{font-style:italic}.leading-9{line-height:2.25rem}.tracking-wide{letter-spacing:.025em}.text-indigo-600{--tw-text-opacity:1;color:rgb(79 70 229/var(--tw-text-opacity))}.text-gray-500{--tw-text-opacity:1;color:rgb(107 114 128/var(--tw-text-opacity))}.text-gray-900{--tw-text-opacity:1;color:rgb(17 24 39/var(--tw-text-opacity))}.text-gray-400{--tw-text-opacity:1;color:rgb(156 163 175/var(--tw-text-opacity))}.text-gray-700{--tw-text-opacity:1;color:rgb(55 65 81/var(--tw-text-opacity))}.text-white{--tw-text-opacity:1;color:rgb(255 255 255/var(--tw-text-opacity))}.text-gray-600{--tw-text-opacity:1;color:rgb(75 85 99/var(--tw-text-opacity))}.text-blue-600{--tw-text-opacity:1;color:rgb(37 99 235/var(--tw-text-opacity))}.text-indigo-500{--tw-text-opacity:1;color:rgb(99 102 241/var(--tw-text-opacity))}.opacity-90{opacity:.9}.shadow-sm{--tw-shadow:0 1px 2px 0 #0000000d;--tw-shadow-colored:0 1px 2px 0 var(--tw-shadow-color)}.shadow-lg,.shadow-sm{box-shadow:var(--tw-ring-offset-shadow,0 0 #0000),var(--tw-ring-shadow,0 0 #0000),var(--tw-shadow)}.shadow-lg{--tw-shadow:0 10px 15px -3px #0000001a,0 4px 6px -4px #0000001a;--tw-shadow-colored:0 10px 15px -3px var(--tw-shadow-color),0 4px 6px -4px var(--tw-shadow-color)}.shadow-md{--tw-shadow:0 4px 6px -1px #0000001a,0 2px 4px -2px #0000001a;--tw-shadow-colored:0 4px 6px -1px var(--tw-shadow-color),0 2px 4px -2px var(--tw-shadow-color);box-shadow:var(--tw-ring-offset-shadow,0 0 #0000),var(--tw-ring-shadow,0 0 #0000),var(--tw-shadow)}.ring-1{--tw-ring-offset-shadow:var(--tw-ring-inset) 0 0 0 var(--tw-ring-offset-width) var(--tw-ring-offset-color);--tw-ring-shadow:var(--tw-ring-inset) 0 0 0 calc(1px + var(--tw-ring-offset-width)) var(--tw-ring-color);box-shadow:var(--tw-ring-offset-shadow),var(--tw-ring-shadow),var(--tw-shadow,0 0 #0000)}.ring-black{--tw-ring-opacity:1;--tw-ring-color:rgb(0 0 0/var(--tw-ring-opacity))}.ring-opacity-5{--tw-ring-opacity:0.05}.drop-shadow-xl{--tw-drop-shadow:drop-shadow(0 20px 13px #00000008) drop-shadow(0 8px 5px #00000014);filter:var(--tw-blur) var(--tw-brightness) var(--tw-contrast) var(--tw-grayscale) var(--tw-hue-rotate) var(--tw-invert) var(--tw-saturate) var(--tw-sepia) var(--tw-drop-shadow)}.transition{transition-property:color,background-color,border-color,fill,stroke,opacity,box-shadow,transform,filter,-webkit-text-decoration-color,-webkit-backdrop-filter;transition-property:color,background-color,border-color,text-decoration-color,fill,stroke,opacity,box-shadow,transform,filter,backdrop-filter;transition-property:color,background-color,border-color,text-decoration-color,fill,stroke,opacity,box-shadow,transform,filter,backdrop-filter,-webkit-text-decoration-color,-webkit-backdrop-filter;transition-timing-function:cubic-bezier(.4,0,.2,1);transition-duration:.15s}h1{font-size:2.25rem;line-height:2.5rem;font-weight:800;letter-spacing:-.025em}@media (min-width:640px){h1{font-size:3rem;line-height:1}}@media (min-width:768px){h1{font-size:3.75rem;line-height:1}}h2{font-size:1.875rem;line-height:2.25rem;font-weight:800}@media (min-width:640px){h2{font-size:2.25rem;line-height:2.5rem}}.content a:not(.btn){--tw-text-opacity:1;color:rgb(37 99 235/var(--tw-text-opacity));-webkit-text-decoration-line:underline;text-decoration-line:underline}.content a:not(.btn):visited{color:#9333ea}.content a:not(.btn):hover{--tw-text-opacity:1;color:rgb(30 64 175/var(--tw-text-opacity))}ul{list-style-type:disc;padding-left:1rem;padding-right:1rem}.hover\:bg-gray-100:hover{--tw-bg-opacity:1;background-color:rgb(243 244 246/var(--tw-bg-opacity))}.hover\:bg-gray-50:hover{--tw-bg-opacity:1;background-color:rgb(249 250 251/var(--tw-bg-opacity))}.hover\:bg-indigo-700:hover{--tw-bg-opacity:1;background-color:rgb(67 56 202/var(--tw-bg-opacity))}.hover\:bg-white:hover{--tw-bg-opacity:1;background-color:rgb(255 255 255/var(--tw-bg-opacity))}.hover\:text-indigo-500:hover{--tw-text-opacity:1;color:rgb(99 102 241/var(--tw-text-opacity))}.hover\:text-gray-500:hover{--tw-text-opacity:1;color:rgb(107 114 128/var(--tw-text-opacity))}.hover\:text-gray-300:hover{--tw-text-opacity:1;color:rgb(209 213 219/var(--tw-text-opacity))}.hover\:text-gray-900:hover{--tw-text-opacity:1;color:rgb(17 24 39/var(--tw-text-opacity))}.focus\:outline-none:focus{outline:2px solid #0000;outline-offset:2px}.focus\:ring-2:focus{--tw-ring-offset-shadow:var(--tw-ring-inset) 0 0 0 var(--tw-ring-offset-width) var(--tw-ring-offset-color);--tw-ring-shadow:var(--tw-ring-inset) 0 0 0 calc(2px + var(--tw-ring-offset-width)) var(--tw-ring-color);box-shadow:var(--tw-ring-offset-shadow),var(--tw-ring-shadow),var(--tw-shadow,0 0 #0000)}.focus\:ring-inset:focus{--tw-ring-inset:inset}.focus\:ring-indigo-500:focus{--tw-ring-opacity:1;--tw-ring-color:rgb(99 102 241/var(--tw-ring-opacity))}.focus\:ring-offset-2:focus{--tw-ring-offset-width:2px}.focus\:ring-offset-gray-100:focus{--tw-ring-offset-color:#f3f4f6}.group:hover .group-hover\:bg-gray-800\/60{background-color:#1f293799}.group:focus .group-focus\:ring-gray-800\/70{--tw-ring-color:#1f2937b3}@media (prefers-color-scheme:dark){.dark\:text-gray-800{--tw-text-opacity:1;color:rgb(31 41 55/var(--tw-text-opacity))}}@media (min-width:640px){.sm\:mx-auto{margin-left:auto;margin-right:auto}.sm\:mt-12{margin-top:3rem}.sm\:mt-5{margin-top:1.25rem}.sm\:hidden{display:none}.sm\:h-10{height:2.5rem}.sm\:h-6{height:1.5rem}.sm\:w-auto{width:auto}.sm\:w-10{width:2.5rem}.sm\:w-6{width:1.5rem}.sm\:max-w-xl{max-width:36rem}.sm\:px-6{padding-left:1.5rem;padding-right:1.5rem}.sm\:py-24{padding-top:6rem;padding-bottom:6rem}.sm\:pt-16{padding-top:4rem}.sm\:text-center{text-align:center}.sm\:text-lg{font-size:1.125rem;line-height:1.75rem}}@media (min-width:768px){.md\:absolute{position:absolute}.md\:bottom-12{bottom:3rem}.md\:left-1\/2{left:50%}.md\:mb-8{margin-bottom:2rem}.md\:mt-5{margin-top:1.25rem}.md\:mt-0{margin-top:0}.md\:ml-4{margin-left:1rem}.md\:block{display:block}.md\:inline{display:inline}.md\:hidden{display:none}.md\:h-screen{height:100vh}.md\:h-full{height:100%}.md\:min-h-0{min-height:0}.md\:-translate-x-1\/2{--tw-translate-x:-50%;transform:translate(var(--tw-translate-x),var(--tw-translate-y)) rotate(var(--tw-rotate)) skewX(var(--tw-skew-x)) skewY(var(--tw-skew-y)) scaleX(var(--tw-scale-x)) scaleY(var(--tw-scale-y))}.md\:flex-row{flex-direction:row}.md\:bg-gray-900{--tw-bg-opacity:1;background-color:rgb(17 24 39/var(--tw-bg-opacity))}.md\:object-right-top{-o-object-position:right top;object-position:right top}.md\:py-20{padding-top:5rem;padding-bottom:5rem}.md\:text-xl{font-size:1.25rem;line-height:1.75rem}}@media (min-width:1024px){.lg\:mx-0{margin-left:0;margin-right:0}.lg\:mt-4{margin-top:1rem}.lg\:ml-10{margin-left:2.5rem}.lg\:mt-0{margin-top:0}.lg\:block{display:block}.lg\:hidden{display:none}.lg\:h-full{height:100%}.lg\:w-2\/5{width:40%}.lg\:w-full{width:100%}.lg\:max-w-2xl{max-width:42rem}.lg\:flex-1{flex:1 1 0%}.lg\:flex-row-reverse{flex-direction:row-reverse}.lg\:items-stretch{align-items:stretch}.lg\:space-x-8>:not([hidden])~:not([hidden]){--tw-space-x-reverse:0;margin-right:calc(2rem*var(--tw-space-x-reverse));margin-left:calc(2rem*(1 - var(--tw-space-x-reverse)))}.lg\:object-top{-o-object-position:top;object-position:top}.lg\:px-8{padding-left:2rem;padding-right:2rem}.lg\:py-24{padding-top:6rem;padding-bottom:6rem}.lg\:pr-4{padding-right:1rem}.lg\:text-left{text-align:left}}

diff --git a/docs/_includes/home/hero.html b/docs/_includes/home/hero.html
@@ -1,5 +1,5 @@
 <div class="lg:w-2/5">
-  <img class="h-96 lg:h-full w-full object-cover object-top md:object-right-top" src="{{ site.baseurl_root }}/assets/images/hero.jpg" alt="">
+  <img class="h-96 lg:h-full w-full object-cover lg:object-top" src="{{ site.baseurl_root }}/assets/images/hero.jpg" alt="">
 </div>
 
 <div class="relative lg:flex-1 max-w-7xl mx-auto">
